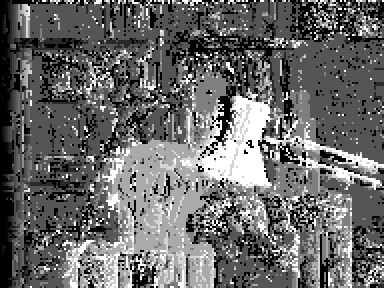
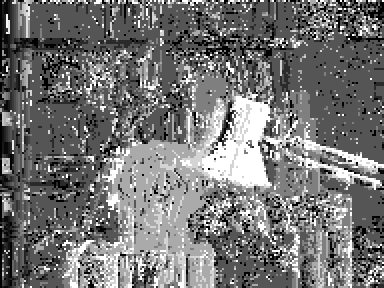
fixed distance func

diff --git a/main.py b/main.py
@@ -7,7 +7,8 @@ import random
 #functions
 def distance(x1,y1,x2,y2):
     # returns the z associated to point w, x1,y1 and x2,y2 are projection of w on cameras 1 and 2
-    return x1-x2
+    return abs(x1-x2)
+    # return x1-x2
     # focal=1
     # baseline=10
     # if (x1-x2)==0:
